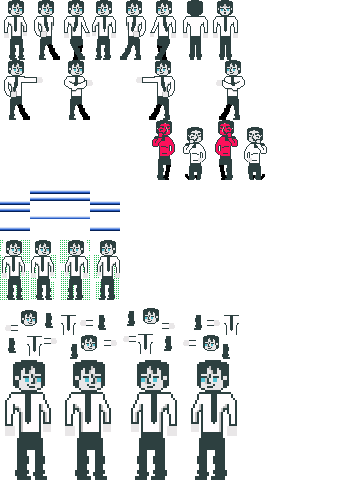
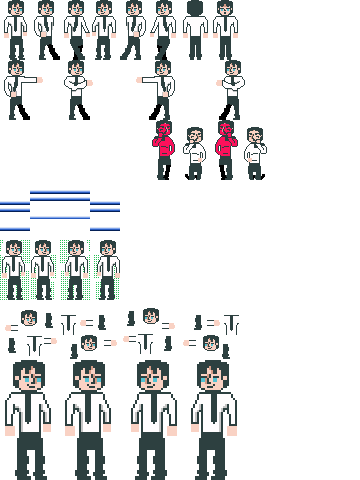
Fixed animation bug in multiplayer mode. Added new character Moon man.

diff --git a/src/misc/char_selector.cpp b/src/misc/char_selector.cpp
@@ -11,23 +11,23 @@ extern Coordinator gCoordinator;
 static std::array <std::string,5> special_power_choices = {"Sneak","Dash","Shield","Chunks","Big"};
 
 
-static Color SNES_BROWN = (Color){135,90,30,255}; 
-static Color SNES_GOLD = (Color){255,163,1,255};
-static Color SNES_ORANGE = (Color){252,124,1,255};
-static Color SNES_PINK = (Color){248,66,175,255};
-static Color SNES_WHITE = (Color){232,232,232,255}; 
-static Color SNES_GREEN = (Color){0,206,2,255};
-static Color SNES_BLUE = (Color){133,222,205,255};
-static Color SNES_PURPLE = (Color){75,73,142,255};
+static Color LIGHT_BROWN = (Color){202,186,186,255}; 
+static Color LIGHT_GOLD = (Color){202,195,181,255};
+static Color LIGHT_ORANGE = (Color){202,198,180,255};
+static Color LIGHT_PINK = (Color){202,181,199,255};
+static Color LIGHT_WHITE = (Color){255,255,255,255}; 
+static Color LIGHT_GREEN = (Color){181,202,186,255};
+static Color LIGHT_BLUE = (Color){181,202,201,255};
+static Color LIGHT_PURPLE = (Color){194,181,202,255};
 
-static std::array <Color,8> player_colors = { SNES_BLUE, //SNES Brown
-											  SNES_GOLD, //SNES Gold
-											  SNES_ORANGE, //SNES Orange
-											  SNES_PINK, //SNES Pink
-											  SNES_WHITE, //SNES Red
-											  SNES_GREEN, //SNES green
-											  SNES_BROWN, //SNES blue
-											  SNES_PURPLE //SNES purple
+static std::array <Color,8> player_colors = { LIGHT_BLUE, //LIGHT Brown
+											  LIGHT_GOLD, //LIGHT Gold
+											  LIGHT_ORANGE, //LIGHT Orange
+											  LIGHT_PINK, //LIGHT Pink
+											  LIGHT_WHITE, //LIGHT Red
+											  LIGHT_GREEN, //LIGHT green
+											  LIGHT_BROWN, //LIGHT blue
+											  LIGHT_PURPLE //LIGHT purple
 											  };
 
 CharacterSelector::CharacterSelector()
@@ -37,7 +37,7 @@ CharacterSelector::CharacterSelector()
 	
 	move_next_state = false;
 	
-	m_num_fighters = 3;
+	m_num_fighters = 4;
 	m_num_special_powers = special_power_choices.size();
 }
 

diff --git a/src/systems/CameraSystem.cpp b/src/systems/CameraSystem.cpp
@@ -103,15 +103,15 @@ void CameraSystem::Update(float& scale)
 	//if more than 1 player
 	if(m_num_players > 1)
 	{
-		std::cout << "farthest left:" << farthest_left << std::endl;
-		std::cout << "farthest right:" << farthest_right << std::endl;
+		//std::cout << "farthest left:" << farthest_left << std::endl;
+		//std::cout << "farthest right:" << farthest_right << std::endl;
 		
 		//calculate center point between players
 		//float center_x = farthest_left + ( (farthest_right - farthest_left) / 2);
 		float center_x = 0.5*(farthest_left + farthest_right);
 		float center_y = 180;
 		
-		std::cout << "center x:" << center_x << std::endl;
+		//std::cout << "center x:" << center_x << std::endl;
 		
 		float dist_between_players = abs(farthest_right - farthest_left) - far_right_player_width;
 		
@@ -160,12 +160,12 @@ void CameraSystem::Update(float& scale)
 		
 		scale = std::min((float)GetScreenWidth()/camera_rect_ptr->width, (float)GetScreenHeight()/camera_rect_ptr->height);
 		
-		std::cout << "\nCamera System\n";
+		//std::cout << "\nCamera System\n";
 		
-		std::cout << "camera x: " << camera_rect_ptr->x << std::endl;
-		std::cout << "camera y: " << camera_rect_ptr->y << std::endl;
-		std::cout << "camera width: " << camera_rect_ptr->width << std::endl;
-		std::cout << "camera height: " << camera_rect_ptr->height << std::endl;
+		//std::cout << "camera x: " << camera_rect_ptr->x << std::endl;
+		//std::cout << "camera y: " << camera_rect_ptr->y << std::endl;
+		//std::cout << "camera width: " << camera_rect_ptr->width << std::endl;
+		//std::cout << "camera height: " << camera_rect_ptr->height << std::endl;
 		//std::cout << "dist between players: " << dist_between_players << std::endl;
 		//std::cout << "zoom factor: " << zoom_factor << std::endl;
 		//std::cout << "scale factor: " << scale << std::endl;

diff --git a/src/systems/AnimationSystem.cpp b/src/systems/AnimationSystem.cpp
@@ -25,7 +25,22 @@ void AnimationSystem::Update(float& dt)
 {
 	//increment frame counter
 	framesCounter++;
-        
+       
+    int iterator = 0;
+    
+    bool increment_frame_count = false;
+    
+    //update animation
+		
+	if (framesCounter >= (60/framesSpeed))
+	{
+		framesCounter = 0;
+		
+		increment_frame_count = true;
+		
+					
+	}
+    
 	for (auto const& entity : mEntities)
 	{
 			
@@ -34,17 +49,14 @@ void AnimationSystem::Update(float& dt)
 		auto& anim_comp = gCoordinator.GetComponent<Animation>(entity);
 		auto& render_comp = gCoordinator.GetComponent<RenderModelComponent>(entity);
 		
-		//update animation
-					
-		if (framesCounter >= (60/framesSpeed))
+		if(increment_frame_count)
 		{
-			framesCounter = 0;
 			anim_comp.frame_count++;
-
-			if (anim_comp.frame_count > 1){anim_comp.frame_count = 0;}
-
 		}
 		
+		if (anim_comp.frame_count > 1){anim_comp.frame_count = 0;}
+		
+		if(iterator == 1)std::cout << "player " << (iterator + 1) << ", frames count: " << framesCounter << ", frame count in anim comp: " << int(anim_comp.frame_count) << std::endl;
 		
 		switch( anim_comp.anim_actor_type)
 		{
@@ -239,8 +251,12 @@ void AnimationSystem::Update(float& dt)
 			
 			
 		}
-				
+			
+		iterator++;	
 	}
+	
+	//reset increment frame count
+	increment_frame_count = false;
 }
 
 
